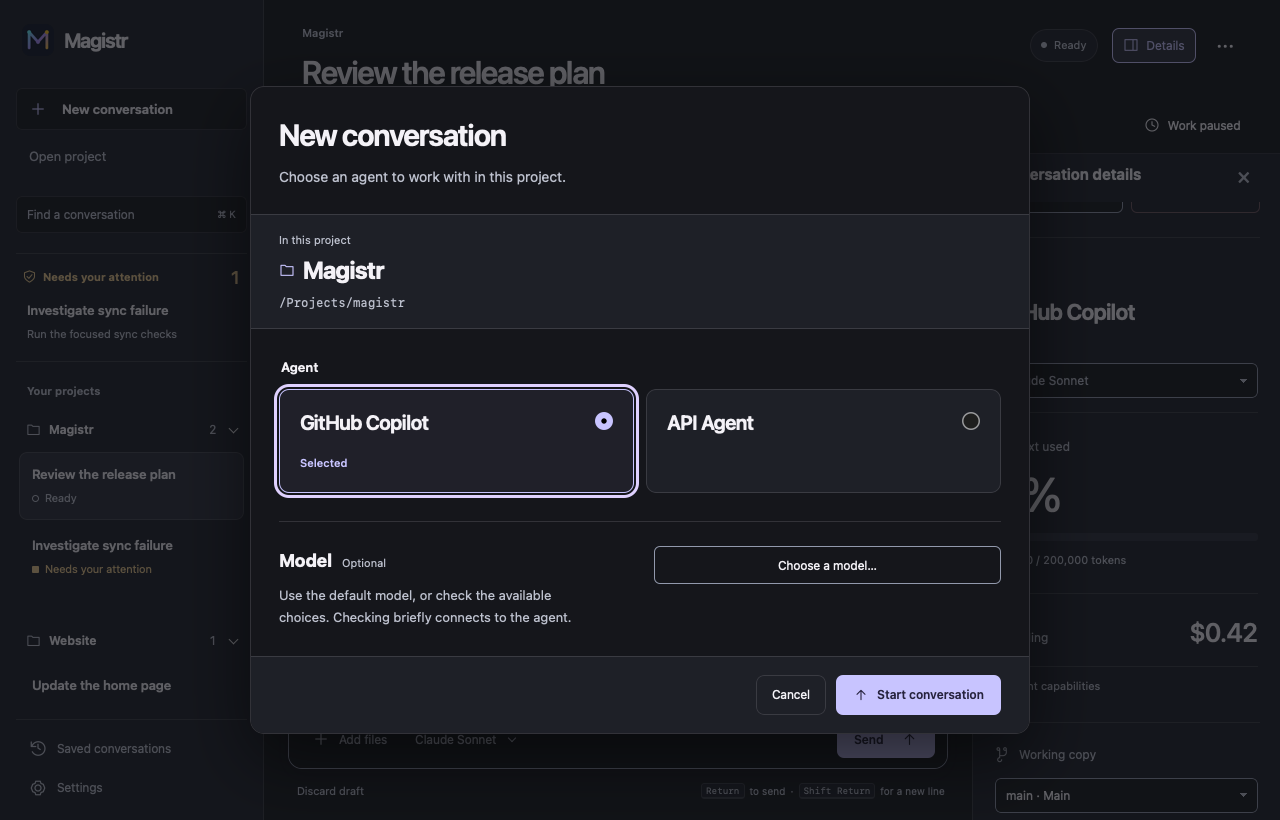
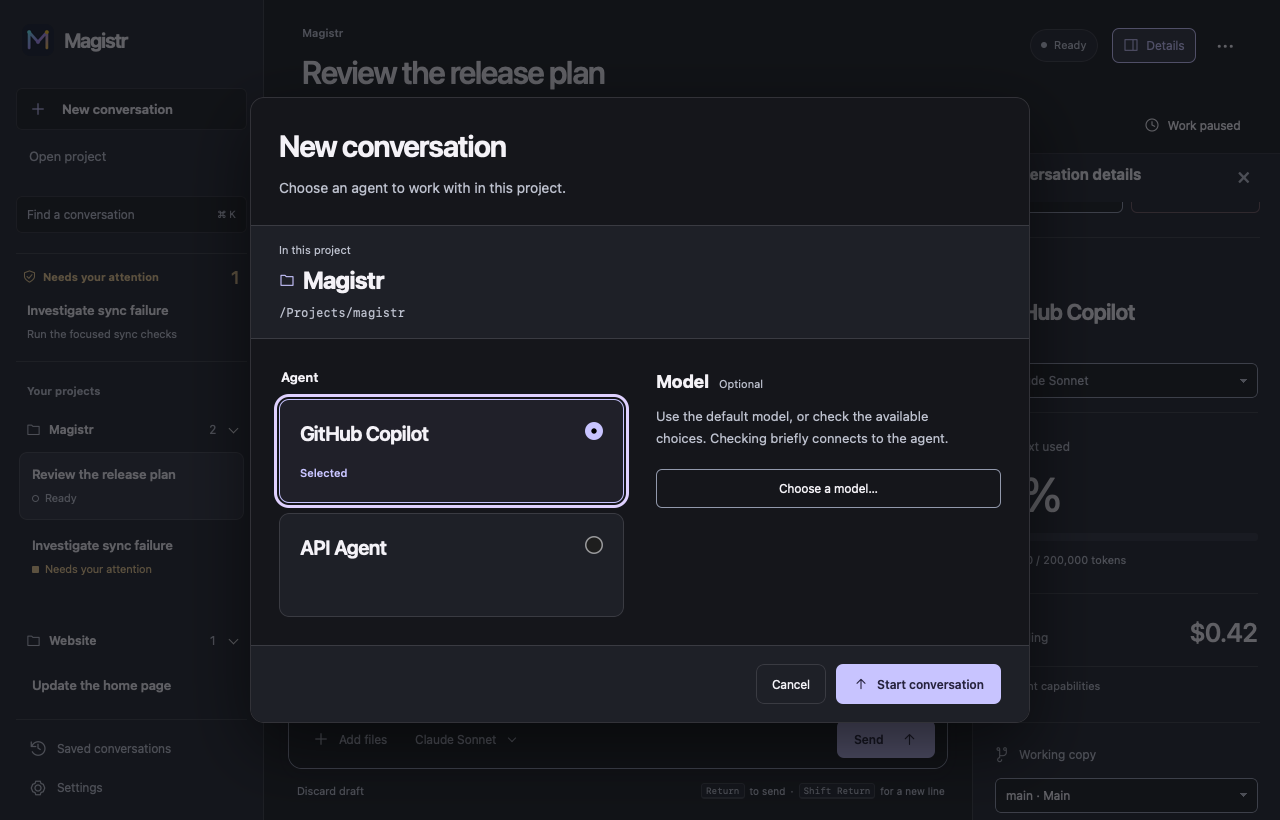
feat(desktop): compose agent and model choices

diff --git a/crates/magistr-desktop/ui/style.css b/crates/magistr-desktop/ui/style.css
@@ -460,20 +460,20 @@ dialog h3{margin:20px 0 10px;font-size:17px}.dialog-actions{display:flex;justify
 .session-destination{padding:16px var(--dialog-gutter);background:var(--panel);border-block:1px solid var(--separator);flex-shrink:0}
 .session-destination>span{display:block;font-size:11px;color:var(--muted);margin-bottom:3px}.session-destination strong{font-size:24px;letter-spacing:-.025em;display:flex;align-items:center;gap:8px}.session-destination strong::before{color:var(--accent)}
 .session-destination p{font-size:12px;margin:4px 0 0}
-.session-choices{padding:28px var(--dialog-gutter);min-height:0;overflow:auto}.session-choice-columns{display:grid;grid-template-columns:minmax(0,1fr);gap:28px;align-items:start}
+.session-choices{padding:28px var(--dialog-gutter);min-height:0;overflow:auto}.session-choice-columns{display:grid;grid-template-columns:minmax(0,1fr) minmax(0,1fr);gap:32px;align-items:start}
 .session-choices fieldset{border:0;padding:0;margin:0;min-width:0}.session-choices legend{font-size:13px;font-weight:600;margin-bottom:12px}
-#agent-choice{display:grid;grid-template-columns:repeat(auto-fit,minmax(min(100%,200px),1fr));gap:12px}
+#agent-choice{display:grid;grid-template-columns:minmax(0,1fr);gap:10px}
 #agent-choice label{display:grid;grid-template-columns:minmax(0,1fr) auto;align-items:start;gap:18px 12px;padding:20px;border:1px solid var(--separator);border-radius:10px;margin:0;cursor:pointer;background:var(--panel);min-height:104px}
 #agent-choice label:hover{background:var(--raised)}#agent-choice label:has(:checked){border-color:var(--accent);background:color-mix(in srgb,var(--accent) 6%,var(--base))}
 #agent-choice label:has(:focus-visible){outline:3px solid var(--focus);outline-offset:2px}#agent-choice input:focus-visible{outline:none}
 #agent-choice input{grid-column:2;grid-row:1;width:18px;min-height:18px;margin:2px 0 0;accent-color:var(--accent)}#agent-choice :checked~.agent-name{color:var(--text)}#agent-choice .agent-name{grid-column:1;grid-row:1;font-size:20px;line-height:1.3;letter-spacing:-.025em;font-weight:600;overflow-wrap:anywhere}
 .agent-selected{grid-column:1/-1;font-size:11px;color:var(--accent);visibility:hidden}#agent-choice :checked~.agent-selected{visibility:visible}
 #agent-choice-empty{font-size:13px;margin:0 0 12px}
-#session-model-section{display:grid;grid-template-columns:minmax(0,1fr) minmax(0,1fr);gap:28px;margin:0;padding:24px 0 0;min-width:0;border-top:1px solid var(--separator)}.model-choice-controls{min-width:0}
+#session-model-section{display:grid;grid-template-columns:minmax(0,1fr);gap:20px;margin:0;padding:0;min-width:0}.model-choice-controls{min-width:0}
 .model-choice-heading{display:flex;align-items:center;gap:12px;justify-content:space-between}
 .model-choice-heading h3{font-size:18px;margin:0}.model-choice-heading h3 span{font-size:11px;font-weight:400;color:var(--muted);margin-left:6px}
 #choose-initial-model{font-size:12px;padding:9px 12px;margin-top:0;width:100%;text-align:center}#model-choice-note{font-size:13px;line-height:1.7;margin:10px 0 0;max-width:38ch}
-#initial-model-control{margin-top:16px}#initial-model-control label{font-size:12px}
+#initial-model-control{margin-top:16px}#initial-model-control legend{font-size:11px;color:var(--muted);margin-bottom:12px}#initial-model{display:grid;gap:8px}#initial-model label{display:flex;align-items:center;gap:12px;min-height:50px;padding:12px 14px;border:1px solid var(--separator);border-radius:8px;background:var(--panel);margin:0;cursor:pointer;font-size:13px;line-height:1.4}#initial-model label:has(:checked){border-color:var(--accent);background:color-mix(in srgb,var(--accent) 6%,var(--base))}#initial-model label:has(:focus-visible){outline:3px solid var(--focus);outline-offset:2px}#initial-model input{width:16px;min-height:16px;flex-shrink:0;accent-color:var(--accent);margin:0}#initial-model input:focus-visible{outline:none}#initial-model span{overflow-wrap:anywhere}
 #session-picker-status,#session-picker-error{font-size:13px;margin:16px 0 0}#session-picker-status{color:var(--accent)}
 #session-picker-error{border:0;border-radius:6px;padding:12px;max-height:110px;overflow:auto}
 #session-picker .picker-footer{margin:0}

diff --git a/crates/magistr-desktop/ui/index.html b/crates/magistr-desktop/ui/index.html
@@ -147,7 +147,7 @@
     <div class="session-destination"><span>In this project</span><strong id="session-destination-name" data-leading-icon="folder"></strong><p id="session-destination-path" class="path"></p></div>
     <div class="session-choices"><div class="session-choice-columns">
       <fieldset><legend>Agent</legend><div id="agent-choice"></div><p id="agent-choice-empty" hidden>No agents were found. Set up an agent on this computer, then check again.</p><button id="session-picker-retry" type="button" hidden>Check again</button></fieldset>
-      <section id="session-model-section" aria-label="Model choice" hidden><div><div class="model-choice-heading"><h3>Model <span>Optional</span></h3></div><p id="model-choice-note">Use the default model, or check the available choices.</p></div><div class="model-choice-controls"><button id="choose-initial-model" type="button">Choose a model…</button><div id="initial-model-control" hidden><label for="initial-model">Model for this conversation</label><select id="initial-model"></select></div></div></section>
+      <section id="session-model-section" aria-label="Model choice" hidden><div><div class="model-choice-heading"><h3>Model <span>Optional</span></h3></div><p id="model-choice-note">Use the default model, or check the available choices.</p></div><div class="model-choice-controls"><button id="choose-initial-model" type="button">Choose a model…</button><fieldset id="initial-model-control" hidden><legend>Model for this conversation</legend><div id="initial-model"></div></fieldset></div></section>
       </div><p id="session-picker-status" role="status" aria-live="polite" hidden></p><p id="session-picker-error" class="error" role="alert" tabindex="-1" hidden></p>
     </div>
     <footer class="picker-footer dialog-footer"><div class="dialog-actions"><button id="session-picker-cancel" type="button">Cancel</button><button id="session-picker-open" data-leading-icon="arrow" type="submit">Start conversation</button></div></footer>
